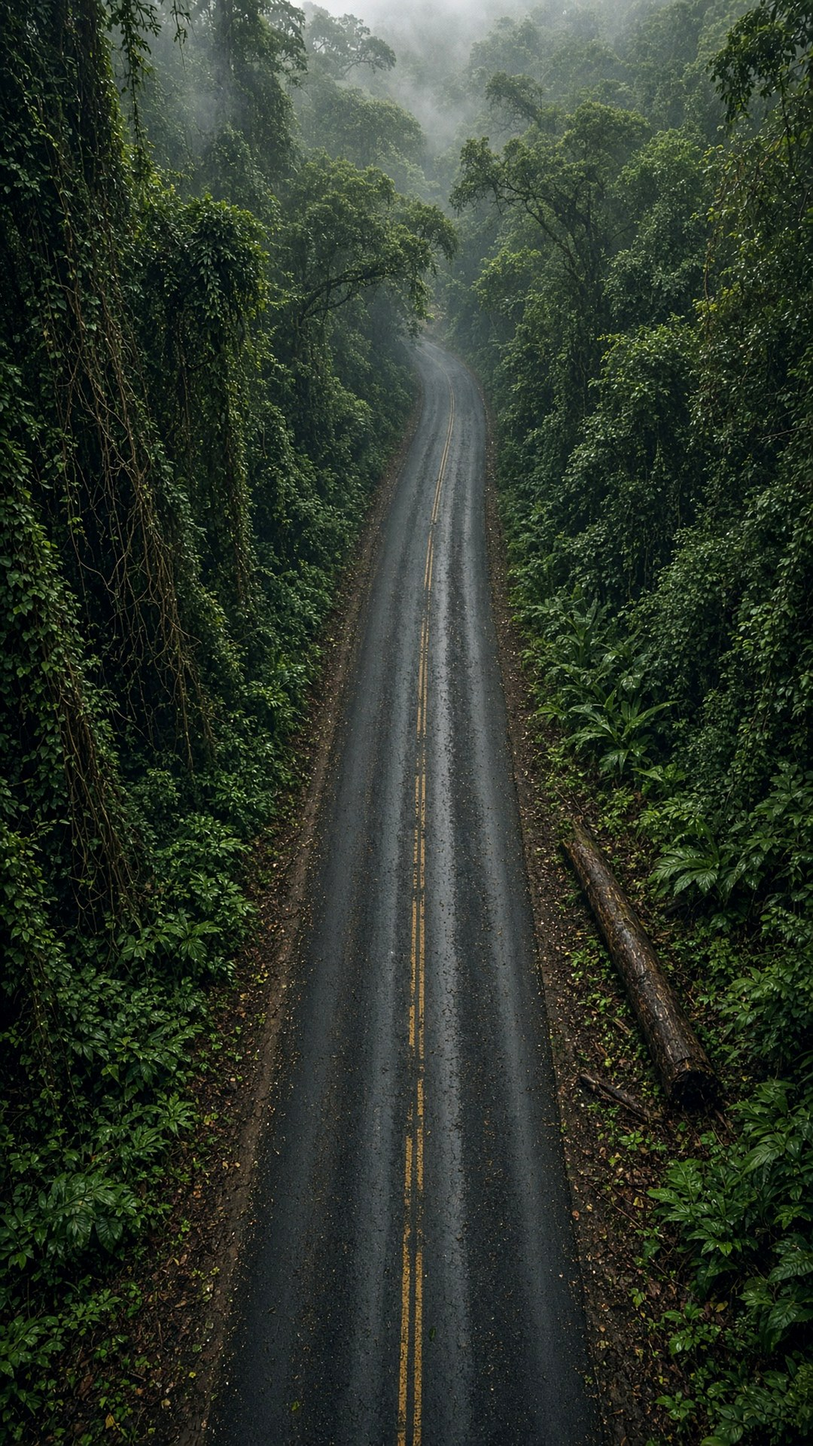
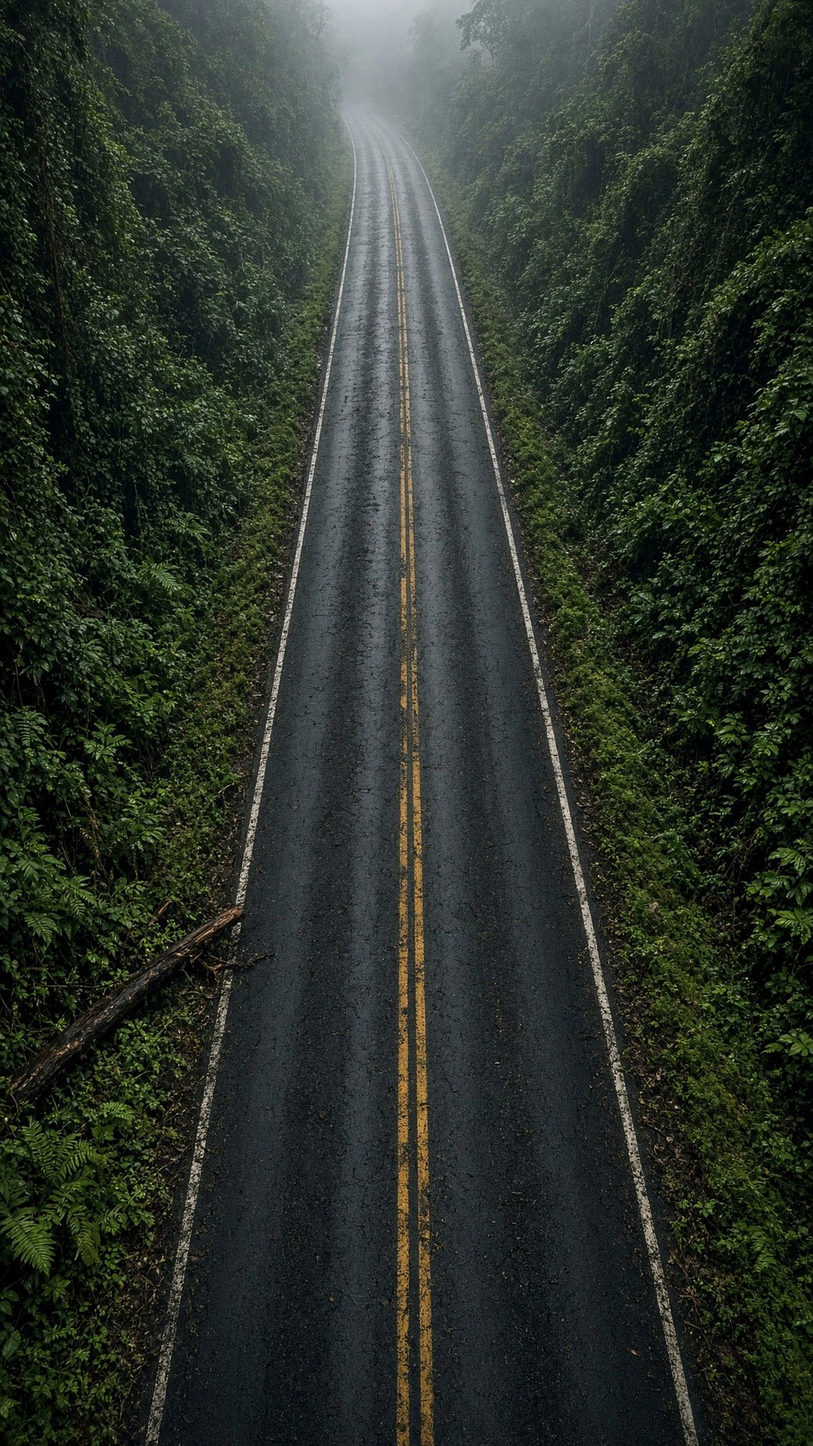
Polish photoreal roads, top-down Warden, and square-free enemy sheets.
Holds get denser roadside art. The Warden shoots north from overhead. Walk frames are padded so cell edges no longer flash as boxes on hit.

diff --git a/src/game/phaser/RunScene.ts b/src/game/phaser/RunScene.ts
@@ -216,35 +216,41 @@ export class RunScene extends Phaser.Scene {
     this.load.spritesheet("towerBuild", "/game/tower-build.png?v=raise1", { frameWidth: 256, frameHeight: 256 });
     this.load.image("spike", "/game/heatspike.png?v=rear1");
     this.load.image("drum", "/game/drum.png?v=rear1");
-    this.load.image("pool", "/game/cinder-mite.png?v=mite1");
     this.load.image("barrel", "/game/crate.png?v=crate1");
     this.load.image("plate", "/game/plate.png?v=rear1");
     this.load.image("pylon", "/game/pylon.png?v=rear1");
     this.load.spritesheet("soldier", "/game/soldier.png?v=ha1", { frameWidth: 256, frameHeight: 256 });
-    this.load.spritesheet("soldierIdle", "/game/soldier-idle.png?v=rim2", { frameWidth: 256, frameHeight: 256 });
-    this.load.spritesheet("soldierShoot", "/game/soldier-shoot.png?v=rim2", { frameWidth: 256, frameHeight: 256 });
-    this.load.spritesheet("ashwalker", "/game/ashwalker.png?v=walk3", { frameWidth: 256, frameHeight: 256 });
+    this.load.spritesheet("soldierIdle", "/game/soldier-idle.png?v=top1", { frameWidth: 256, frameHeight: 256 });
+    this.load.spritesheet("soldierShoot", "/game/soldier-shoot.png?v=top1", { frameWidth: 256, frameHeight: 256 });
+    this.load.spritesheet("ashwalker", "/game/ashwalker.png?v=walk7", { frameWidth: 256, frameHeight: 256 });
     this.load.spritesheet("muzzle", "/game/muzzle.png?v=fx2", { frameWidth: 256, frameHeight: 256 });
     this.load.spritesheet("bullet", "/game/bullet.png", { frameWidth: 96, frameHeight: 96 });
-    this.load.spritesheet("impact", "/game/impact.png?v=fx2", { frameWidth: 256, frameHeight: 256 });
-    this.load.spritesheet("props", "/game/props.png?v=det1", { frameWidth: 256, frameHeight: 256 });
-    this.load.spritesheet("brute", "/game/brute.png?v=b1", { frameWidth: 256, frameHeight: 256 });
+    this.load.spritesheet("impact", "/game/impact.png?v=fx3", { frameWidth: 256, frameHeight: 256 });
+    this.load.spritesheet("props", "/game/props.png?v=prop2", { frameWidth: 256, frameHeight: 256 });
+    this.load.spritesheet("brute", "/game/brute.png?v=b5", { frameWidth: 256, frameHeight: 256 });
+    this.load.spritesheet("pool", "/game/cinder-mite.png?v=walk4", { frameWidth: 256, frameHeight: 256 });
   }
 
   create() {
-    for (const key of ["ash-walk", "brute-walk", "soldier-walk", "soldier-idle", "soldier-shoot", "muzzle-flash", "bullet-spin", "boom", "tower-raise"]) {
+    for (const key of ["ash-walk", "brute-walk", "mite-walk", "soldier-walk", "soldier-idle", "soldier-shoot", "muzzle-flash", "bullet-spin", "boom", "tower-raise"]) {
       if (this.anims.exists(key)) this.anims.remove(key);
     }
     this.anims.create({
       key: "ash-walk",
-      frames: this.anims.generateFrameNumbers("ashwalker", { start: 0, end: 11 }),
-      frameRate: 8,
+      frames: this.anims.generateFrameNumbers("ashwalker", { start: 0, end: 15 }),
+      frameRate: 10,
       repeat: -1,
     });
     this.anims.create({
       key: "brute-walk",
-      frames: this.anims.generateFrameNumbers("brute", { start: 0, end: 3 }),
-      frameRate: 7,
+      frames: this.anims.generateFrameNumbers("brute", { start: 0, end: 7 }),
+      frameRate: 8,
+      repeat: -1,
+    });
+    this.anims.create({
+      key: "mite-walk",
+      frames: this.anims.generateFrameNumbers("pool", { start: 0, end: 3 }),
+      frameRate: 8,
       repeat: -1,
     });
     this.anims.create({
@@ -261,8 +267,8 @@ export class RunScene extends Phaser.Scene {
     });
     this.anims.create({
       key: "soldier-shoot",
-      frames: this.anims.generateFrameNumbers("soldierShoot", { start: 0, end: 7 }),
-      frameRate: 20,
+      frames: this.anims.generateFrameNumbers("soldierShoot", { start: 0, end: 15 }),
+      frameRate: 16,
       repeat: -1,
     });
     this.anims.create({
@@ -342,7 +348,7 @@ export class RunScene extends Phaser.Scene {
     cbody.setAllowGravity(false);
     cbody.setImmovable(true);
     this.player.play("soldier-shoot");
-    for (const key of ["soldier", "soldierIdle", "soldierShoot", "ashwalker", "muzzle", "towerBuild", "tower"]) {
+    for (const key of ["soldier", "soldierIdle", "soldierShoot", "ashwalker", "brute", "pool", "muzzle", "towerBuild", "tower", "props"]) {
       this.textures.get(key).setFilter(Phaser.Textures.FilterMode.LINEAR);
     }
 
@@ -372,14 +378,14 @@ export class RunScene extends Phaser.Scene {
     this.dirt.setDepth(13);
 
     this.motes = this.add.particles(0, 0, "mote", {
-      x: { min: 220, max: 860 },
-      y: { min: 80, max: DESIGN_H - 200 },
-      speedY: { min: 22, max: 88 },
-      speedX: { min: -22, max: 22 },
-      lifespan: 3200,
-      scale: { start: 1.15, end: 0.08 },
-      alpha: { start: 0.55, end: 0 },
-      frequency: 48,
+      x: { min: 180, max: 900 },
+      y: { min: 40, max: DESIGN_H - 180 },
+      speedY: { min: 18, max: 72 },
+      speedX: { min: -18, max: 18 },
+      lifespan: 4200,
+      scale: { start: 1.25, end: 0.06 },
+      alpha: { start: 0.42, end: 0 },
+      frequency: 36,
       quantity: 1,
       blendMode: "ADD",
     });
@@ -798,6 +804,7 @@ export class RunScene extends Phaser.Scene {
       }
       if (data.kind === "drum") s.rotation += dt * 3.2;
       if (data.kind === "brute" && s.anims.currentAnim?.key !== "brute-walk") s.play("brute-walk");
+      if (data.kind === "pool" && s.anims.currentAnim?.key !== "mite-walk") s.play("mite-walk");
       const label = s.getData("label") as Phaser.GameObjects.Text | undefined;
       if (label) label.setPosition(s.x, s.y - 28 * g.scale);
       if (data.kind === "pool" && this.physics.overlap(this.player, s)) this.inFire = true;
@@ -939,7 +946,7 @@ export class RunScene extends Phaser.Scene {
         consumed: false,
       });
     } else if (ev.kind === "pool") {
-      this.makeMob("pool", x, y, {
+      const s = this.makeMob("pool", x, y, {
         kind: "pool",
         hp: 4,
         hits: 0,
@@ -949,6 +956,7 @@ export class RunScene extends Phaser.Scene {
         lane,
         consumed: false,
       });
+      if (s) s.play("mite-walk");
     } else if (ev.kind === "barrel") {
       const parkY = 1140;
       const g = this.groundAt(parkY);
@@ -1010,25 +1018,26 @@ export class RunScene extends Phaser.Scene {
   }
 
   private plantDecor() {
-    const frames = [2, 3, 4, 5];
+    const frames = [0, 1, 2, 3, 4, 5, 6, 7, 8];
     const seed = (this.stage.index + 3) * 9973;
     let s = seed >>> 0;
     const rnd = () => {
       s = (Math.imul(s, 1664525) + 1013904223) >>> 0;
       return s / 4294967296;
     };
-    for (let i = 0; i < 18; i++) {
-      const y = 220 + i * 88 + rnd() * 30;
+    for (let i = 0; i < 26; i++) {
+      const y = 180 + i * 66 + rnd() * 28;
       const g = this.groundAt(y);
       const side = i % 2 === 0 ? -1 : 1;
-      const x = (side < 0 ? g.left : g.right) + side * (18 + rnd() * 36);
+      const x = (side < 0 ? g.left : g.right) + side * (22 + rnd() * 42);
       const spr = this.add.image(x, y, "props", frames[Math.floor(rnd() * frames.length)]);
-      const sc = (0.34 + rnd() * 0.18) * g.scale;
+      const sc = (0.28 + rnd() * 0.22) * g.scale;
       spr.setOrigin(0.5, 0.88);
       spr.setScale(sc);
       spr.setDepth(3.2 + y * 0.003);
-      spr.setAlpha(0.88);
+      spr.setAlpha(0.78 + rnd() * 0.16);
       spr.setFlipX(side > 0);
+      if (this.theme.ashTint) spr.setTint(this.theme.ashTint);
     }
   }
 
@@ -1048,9 +1057,9 @@ export class RunScene extends Phaser.Scene {
     const shadow = s.getData("shadow") as Phaser.GameObjects.Ellipse | undefined;
     if (shadow) {
       shadow.setPosition(s.x, s.y + 6);
-      shadow.setSize(bw * gScale * 0.62, Math.max(10, 18 * gScale));
+      shadow.setSize(bw * gScale * 0.48, Math.max(8, 12 * gScale));
       shadow.setDepth(4.5 + s.y * 0.004);
-      shadow.setAlpha(0.42 + gScale * 0.22);
+      shadow.setAlpha(0.22 + gScale * 0.12);
     }
     const glow = s.getData("glow") as Phaser.GameObjects.Ellipse | undefined;
     const glowRing = s.getData("glowRing") as Phaser.GameObjects.Ellipse | undefined;
@@ -1106,12 +1115,8 @@ export class RunScene extends Phaser.Scene {
     s.setData("consumed", false);
     s.setData("buff", data.buff ?? null);
     if (key === "ashwalker" || key === "brute") {
-      let shadow = s.getData("shadow") as Phaser.GameObjects.Ellipse | undefined;
-      if (!shadow || !shadow.scene) {
-        shadow = this.add.ellipse(x, y + 4, key === "brute" ? 88 : 64, 16, 0x000000, 0.5);
-        s.setData("shadow", shadow);
-      }
-      shadow.setVisible(true);
+      const shadow = s.getData("shadow") as Phaser.GameObjects.Ellipse | undefined;
+      if (shadow) shadow.setVisible(false);
       if (key === "ashwalker") {
         s.play("ash-walk");
         s.anims.timeScale = 0.82 + Math.random() * 0.22;
@@ -1310,15 +1315,7 @@ export class RunScene extends Phaser.Scene {
 
     const hp = (m.getData("hp") as number) - this.cfg.bonuses.damage;
     m.setData("hp", hp);
-    if (d.kind !== "ash") {
-      m.setTint(0xffc070);
-      this.time.delayedCall(55, () => {
-        if (!m.active) return;
-        if (d.kind === "brute") m.setTint(0xff8866);
-        else if (d.kind === "barrel") m.setTint(0xffe8b0);
-        else m.clearTint();
-      });
-    }
+    this.spark.explode(4, m.x, m.y - 8);
     const label = m.getData("label") as Phaser.GameObjects.Text | undefined;
     if (label) label.setText(String(Math.max(0, Math.ceil(hp))));
     audio.hit();
@@ -1387,12 +1384,14 @@ export class RunScene extends Phaser.Scene {
   }
 
   private popFx(x: number, y: number) {
+    this.spark.explode(10, x, y);
     const s = this.fx.get(x, y, "impact") as Phaser.Physics.Arcade.Sprite | null;
     if (!s) return;
     s.enableBody(true, x, y, true, true);
     s.setActive(true).setVisible(true).setDepth(10);
-    s.setDisplaySize(170, 170);
+    s.setDisplaySize(88, 88);
     s.setBlendMode(Phaser.BlendModes.ADD);
+    s.setAlpha(0.85);
     s.play("boom");
     s.once("animationcomplete", () => s.disableBody(true, true));
   }

diff --git a/src/game/data/catalog.ts b/src/game/data/catalog.ts
@@ -69,7 +69,7 @@ export const THEMES: Record<ThemeId, ThemeVisual> = {
   asphalt: {
     id: "asphalt",
     region: "The Grade",
-    road: "/game/road.jpg?v=det1",
+    road: "/game/road.jpg?v=real2",
     overlay: 0x1a1008,
     overlayAlpha: 0.12,
     shoulder: 0x1a120c,
@@ -83,7 +83,7 @@ export const THEMES: Record<ThemeId, ThemeVisual> = {
   desert: {
     id: "desert",
     region: "Cinder Wash",
-    road: "/game/road-desert.jpg?v=det1",
+    road: "/game/road-desert.jpg?v=real2",
     overlay: 0xc45c12,
     overlayAlpha: 0.1,
     shoulder: 0x3a2814,
@@ -97,7 +97,7 @@ export const THEMES: Record<ThemeId, ThemeVisual> = {
   jungle: {
     id: "jungle",
     region: "Green Rot",
-    road: "/game/road-jungle.jpg?v=det1",
+    road: "/game/road-jungle.jpg?v=real2",
     overlay: 0x143018,
     overlayAlpha: 0.16,
     shoulder: 0x0e2212,
@@ -111,7 +111,7 @@ export const THEMES: Record<ThemeId, ThemeVisual> = {
   salt: {
     id: "salt",
     region: "Glass Flats",
-    road: "/game/road-salt.jpg?v=det1",
+    road: "/game/road-salt.jpg?v=real2",
     overlay: 0xd8d0c0,
     overlayAlpha: 0.08,
     shoulder: 0x3a3830,
@@ -125,7 +125,7 @@ export const THEMES: Record<ThemeId, ThemeVisual> = {
   night: {
     id: "night",
     region: "Blackout Mile",
-    road: "/game/road-night.jpg?v=det1",
+    road: "/game/road-night.jpg?v=real2",
     overlay: 0x0a1028,
     overlayAlpha: 0.22,
     shoulder: 0x080c18,
@@ -139,7 +139,7 @@ export const THEMES: Record<ThemeId, ThemeVisual> = {
   tundra: {
     id: "tundra",
     region: "White Grade",
-    road: "/game/road-tundra.jpg?v=det1",
+    road: "/game/road-tundra.jpg?v=real2",
     overlay: 0x88b8d8,
     overlayAlpha: 0.1,
     shoulder: 0x1c2830,
@@ -153,7 +153,7 @@ export const THEMES: Record<ThemeId, ThemeVisual> = {
   magma: {
     id: "magma",
     region: "Kiln Road",
-    road: "/game/road-magma.jpg?v=det1",
+    road: "/game/road-magma.jpg?v=real2",
     overlay: 0x9b2f02,
     overlayAlpha: 0.14,
     shoulder: 0x1a0806,
@@ -167,7 +167,7 @@ export const THEMES: Record<ThemeId, ThemeVisual> = {
   core: {
     id: "core",
     region: "Ember Heart",
-    road: "/game/road-core.jpg?v=det1",
+    road: "/game/road-core.jpg?v=real2",
     overlay: 0xe85d04,
     overlayAlpha: 0.12,
     shoulder: 0x180c08,
@@ -404,7 +404,7 @@ function holdLook(theme: ThemeId, index: number, name: string): HoldLook {
   let overlayAlpha = Math.min(0.22, base.overlayAlpha + (slot === 2 ? 0.05 : 0));
   let haze = 0.05 + slot * 0.04;
   if (theme === "asphalt") {
-    if (n.includes("overpass") || n.includes("stack") || slot === 2) road = "/game/road-overpass.jpg?v=var1";
+    if (n.includes("overpass") || n.includes("stack") || slot === 2) road = "/game/road-overpass.jpg?v=real2";
     if (n.includes("culvert")) {
       overlay = 0x081018;
       overlayAlpha = 0.24;
@@ -417,21 +417,21 @@ function holdLook(theme: ThemeId, index: number, name: string): HoldLook {
       haze = 0.16;
     }
   } else if (theme === "desert") {
-    if (slot !== 0 || n.includes("well") || n.includes("dune") || n.includes("dry")) road = "/game/road-desert2.jpg?v=var1";
+    if (slot !== 0 || n.includes("well") || n.includes("dune") || n.includes("dry")) road = "/game/road-desert2.jpg?v=real2";
     if (n.includes("sunkill") || n.includes("glass")) {
       overlay = 0xffaa44;
       overlayAlpha = 0.16;
       haze = 0.18;
     }
   } else if (theme === "jungle") {
-    if (slot !== 0 || n.includes("canopy") || n.includes("wet") || n.includes("root")) road = "/game/road-jungle2.jpg?v=var1";
+    if (slot !== 0 || n.includes("canopy") || n.includes("wet") || n.includes("root")) road = "/game/road-jungle2.jpg?v=real2";
     if (n.includes("rot") || n.includes("gauntlet")) {
       overlay = 0x0a2010;
       overlayAlpha = 0.22;
       haze = 0.2;
     }
   } else if (theme === "night") {
-    if (slot !== 0 || n.includes("neon") || n.includes("sodium") || n.includes("midnight")) road = "/game/road-night2.jpg?v=var1";
+    if (slot !== 0 || n.includes("neon") || n.includes("sodium") || n.includes("midnight")) road = "/game/road-night2.jpg?v=real2";
     if (n.includes("blackout") || n.includes("grid")) {
       overlay = 0x050814;
       overlayAlpha = 0.3;
